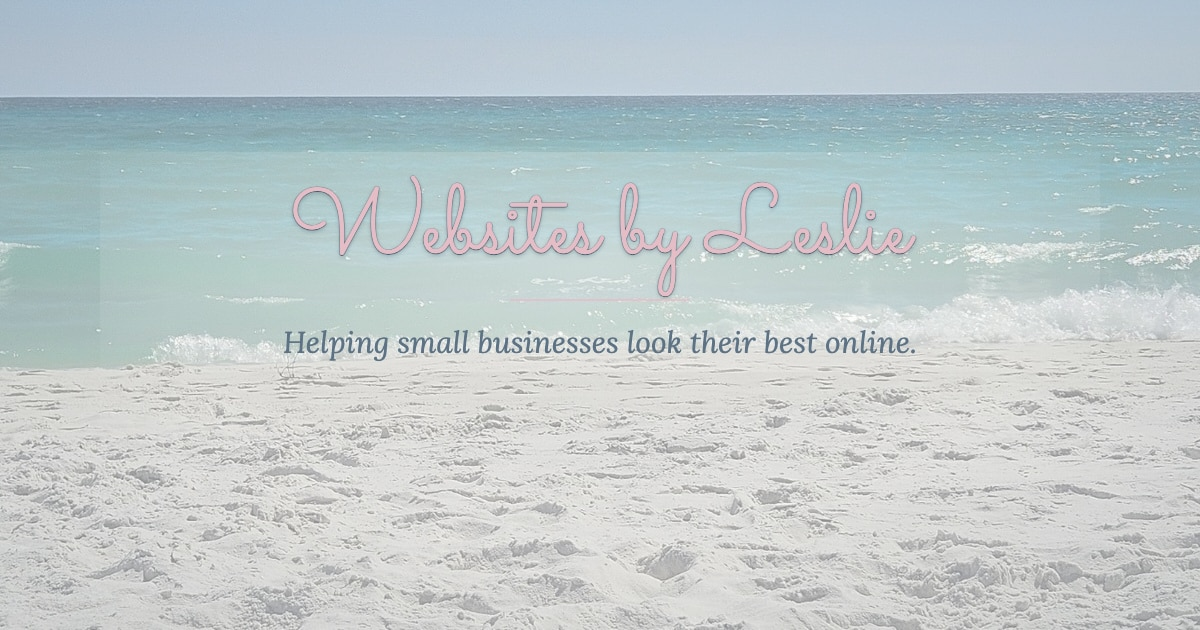
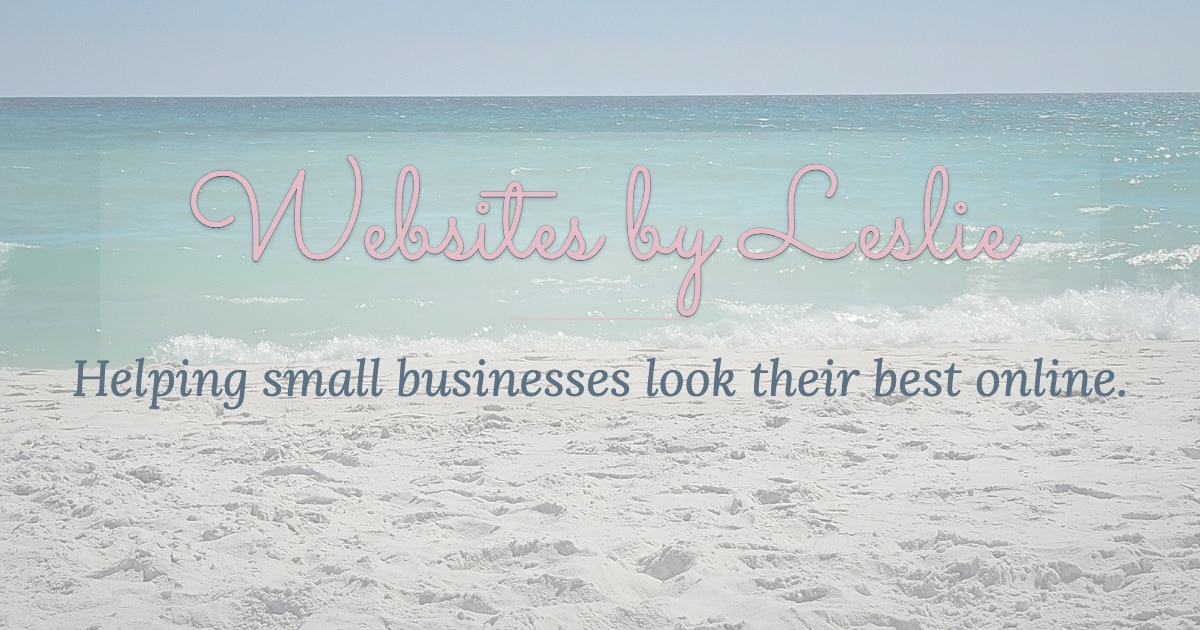
Finalize Open Graph social preview branding
Scales up typography for thumbnail legibility: Sacramento script at 128px
(+33%) and Lora italic tagline at 50px (+67%). Generated via
Chrome/Puppeteer with real Google Font rendering. Cache-bust bumped to
v20260629.

Changed region(s): [[0.0617, 0.2413, 0.925, 0.6635], [0.4933, 0.2111, 0.5242, 0.2413]]

diff --git a/index.html b/index.html
@@ -13,7 +13,7 @@
     <meta property="og:url"         content="https://websitesbyleslie.com/" />
     <meta property="og:title"       content="Websites by Leslie — Simple websites for small businesses" />
     <meta property="og:description" content="Helping small businesses get online without the DIY headache. Clean, affordable websites from an independent local developer." />
-    <meta property="og:image"       content="https://websitesbyleslie.com/social-preview-v2.jpg?v=20260628" />
+    <meta property="og:image"       content="https://websitesbyleslie.com/social-preview-v2.jpg?v=20260629" />
     <meta property="og:image:width"  content="1200" />
     <meta property="og:image:height" content="630" />
     <meta property="og:image:alt"    content="Websites by Leslie — Simple websites for small businesses" />
@@ -22,7 +22,7 @@
     <meta name="twitter:card"        content="summary_large_image" />
     <meta name="twitter:title"       content="Websites by Leslie — Simple websites for small businesses" />
     <meta name="twitter:description" content="Helping small businesses get online without the DIY headache. Clean, affordable websites from an independent local developer." />
-    <meta name="twitter:image"       content="https://websitesbyleslie.com/social-preview-v2.jpg?v=20260628" />
+    <meta name="twitter:image"       content="https://websitesbyleslie.com/social-preview-v2.jpg?v=20260629" />
     <link rel="preconnect" href="https://fonts.googleapis.com" />
     <link rel="preconnect" href="https://fonts.gstatic.com" crossorigin />
     <link href="https://fonts.googleapis.com/css2?family=Lora:ital,wght@0,400;0,500;0,700;1,400&family=Sacramento&family=Syne:wght@400;500;600;700&display=swap" rel="stylesheet" />